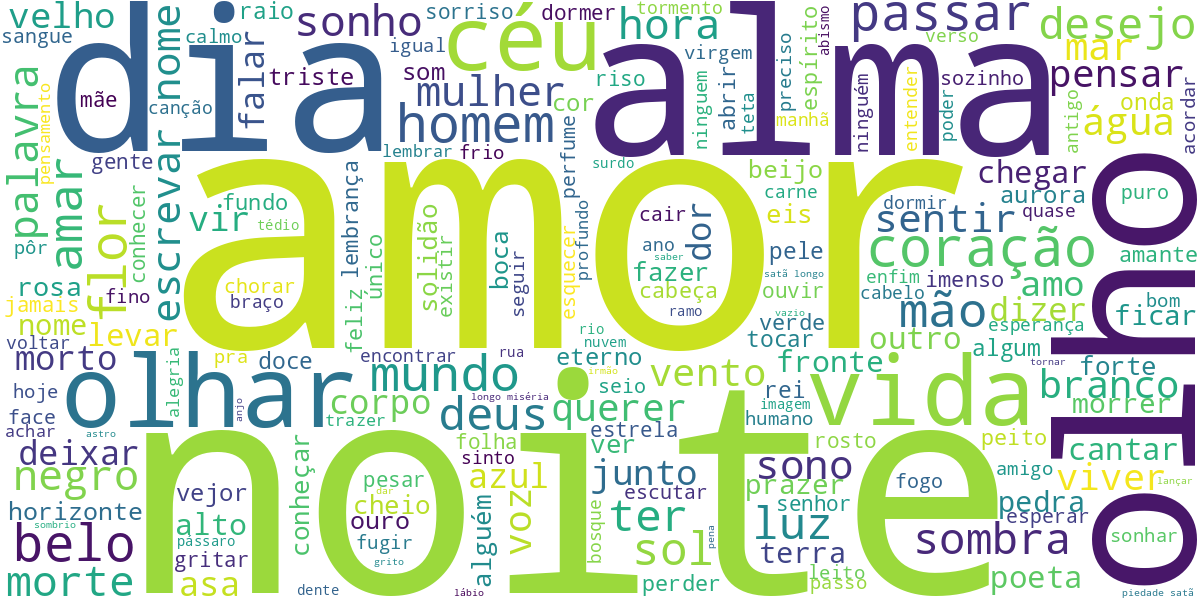
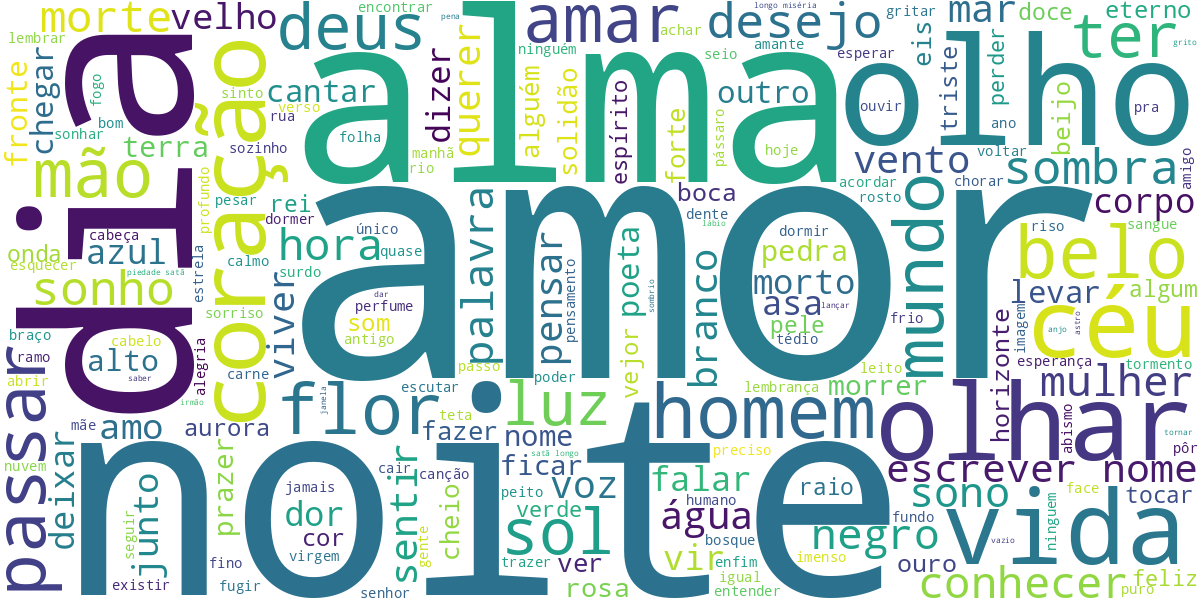
novo bertopic

diff --git a/modelagemTopicos/bertopic3.py b/modelagemTopicos/bertopic3.py
@@ -22,7 +22,7 @@ os.environ["TOKENIZERS_PARALLELISM"] = "false"
 
 SEED = 42
 
-TITLE = "reference"
+TITLE = "original"
 # original reference chatGPTPrompt1 googleTradutor maritacaPrompt1
 
 # Caminho para o arquivo de entrada
@@ -33,14 +33,14 @@ CAMINHO_CSV = "poemas_unificados.csv"
 PASTA_SAIDA = "results"
 
 # Coluna do DataFrame a ser utilizada
-COLUNA_POEMAS = "translated_poem"  # "original_poem", "translated_poem", "translated_by_TA"
+COLUNA_POEMAS = "original_poem"  # "original_poem", "translated_poem", "translated_by_TA"
 
 # Definição dos idiomas de origem e destino para filtrar o CSV
 IDIOMA_ORIGEM = "fr_XX"  #  "fr_XX", "pt_XX", "en_XX"
 IDIOMA_DESTINO = "pt_XX" #  "fr_XX", "pt_XX", "en_XX"
 
 # Idioma para o pré-processamento (NLTK e spaCy)
-IDIOMA_PROC = "pt_XX"
+IDIOMA_PROC = "fr_XX"
 
 
 
